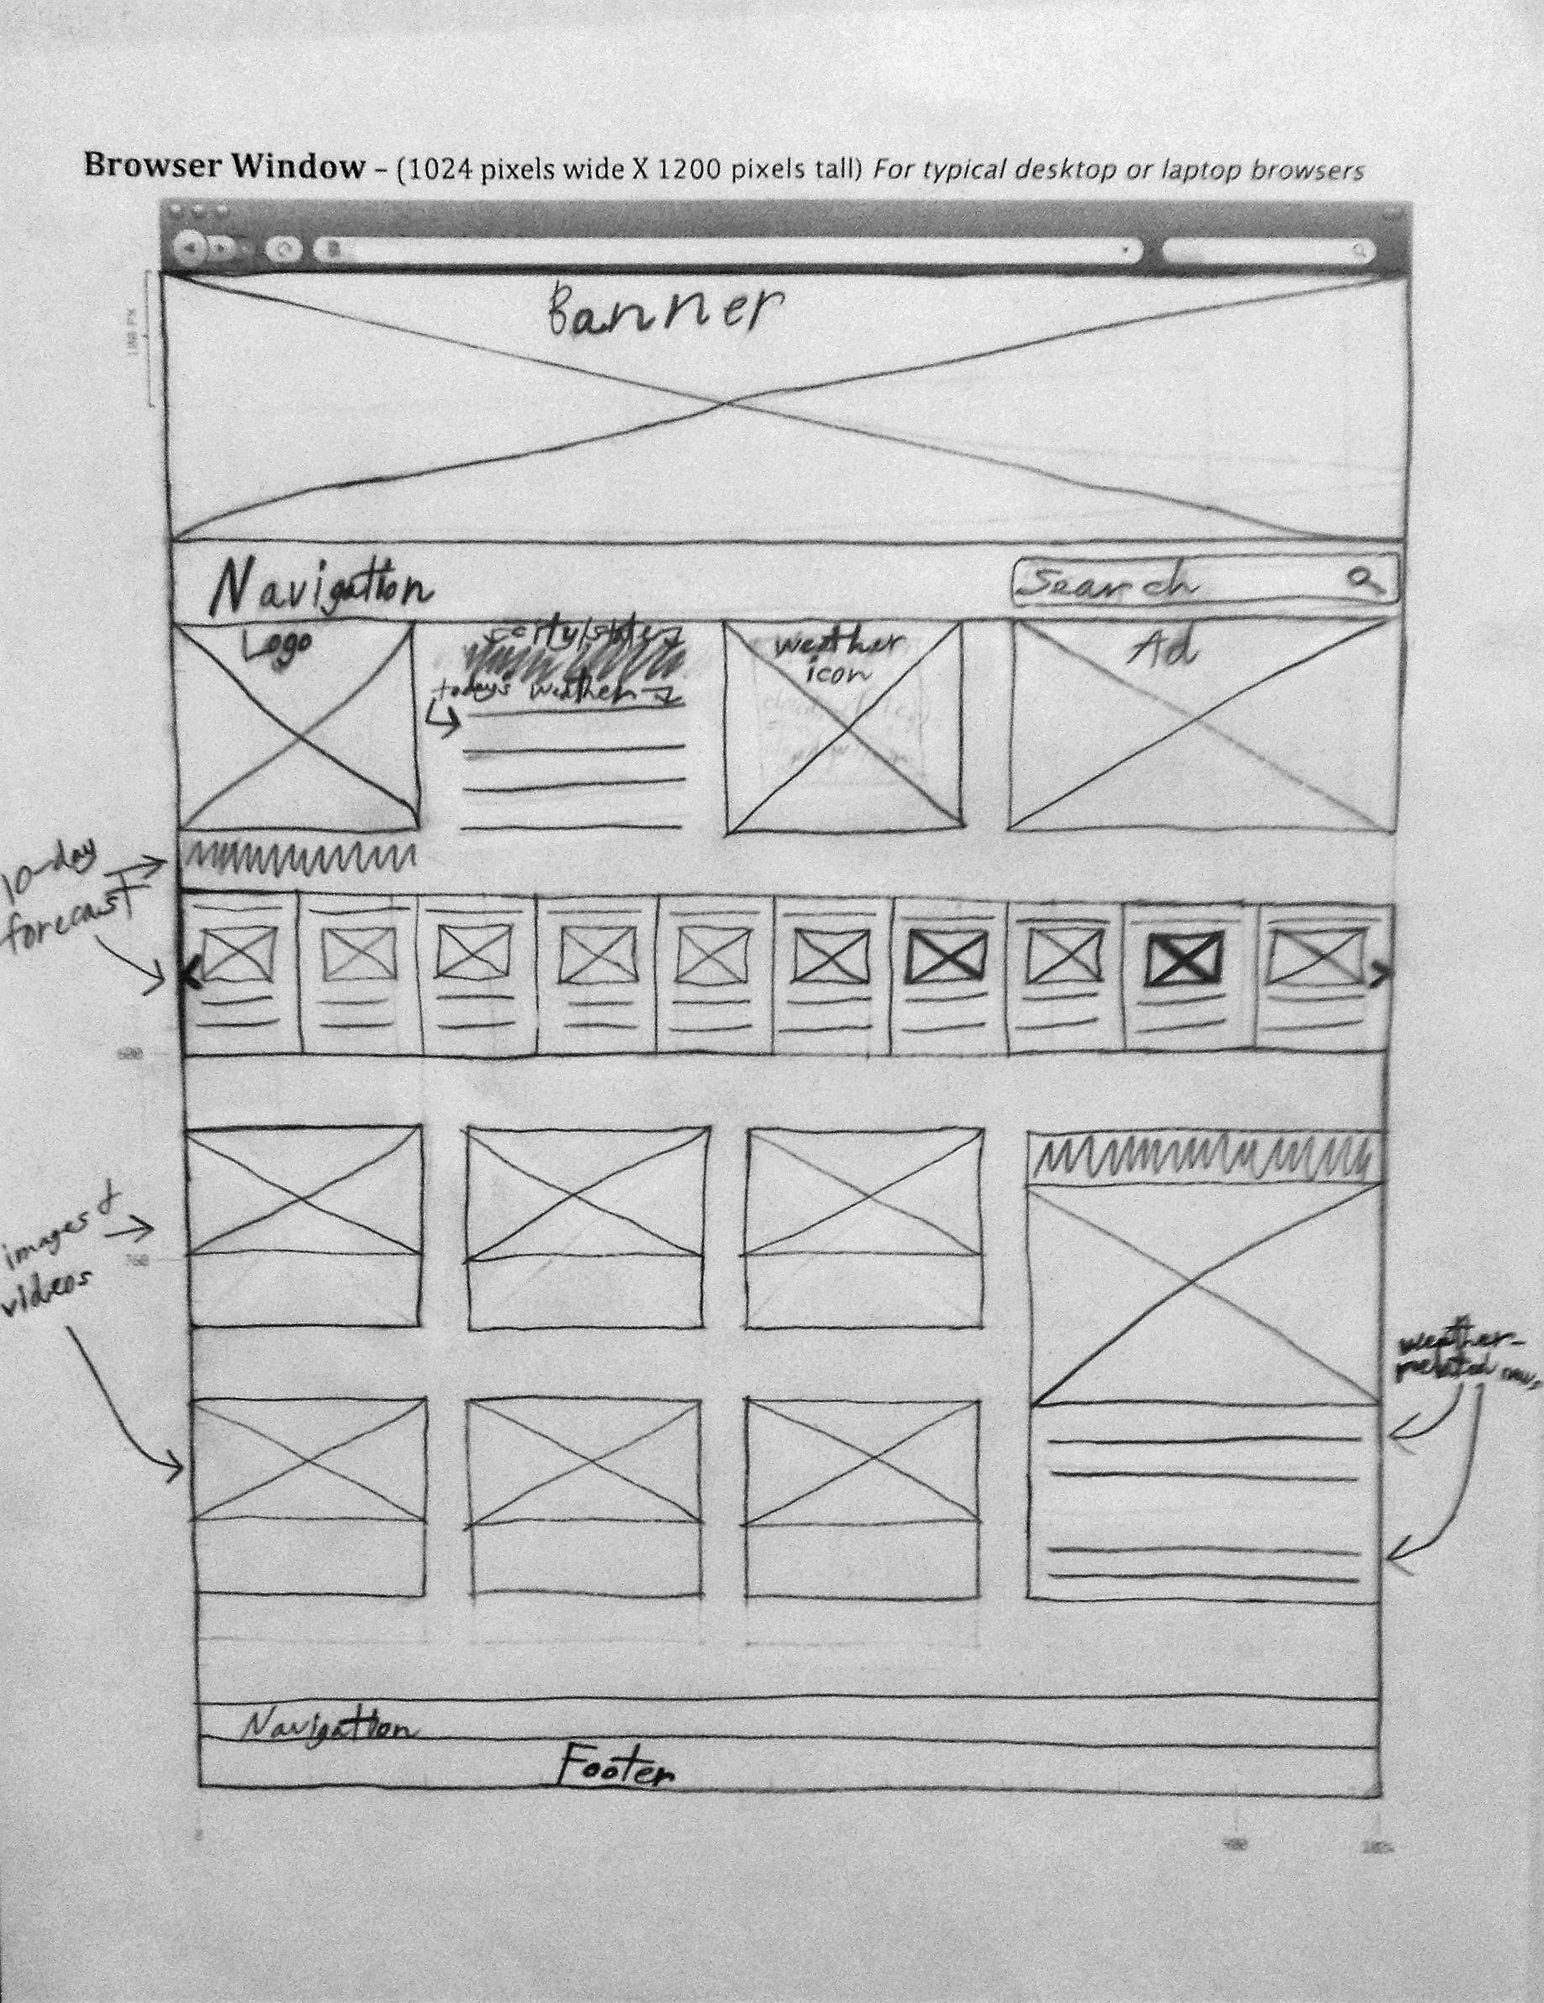
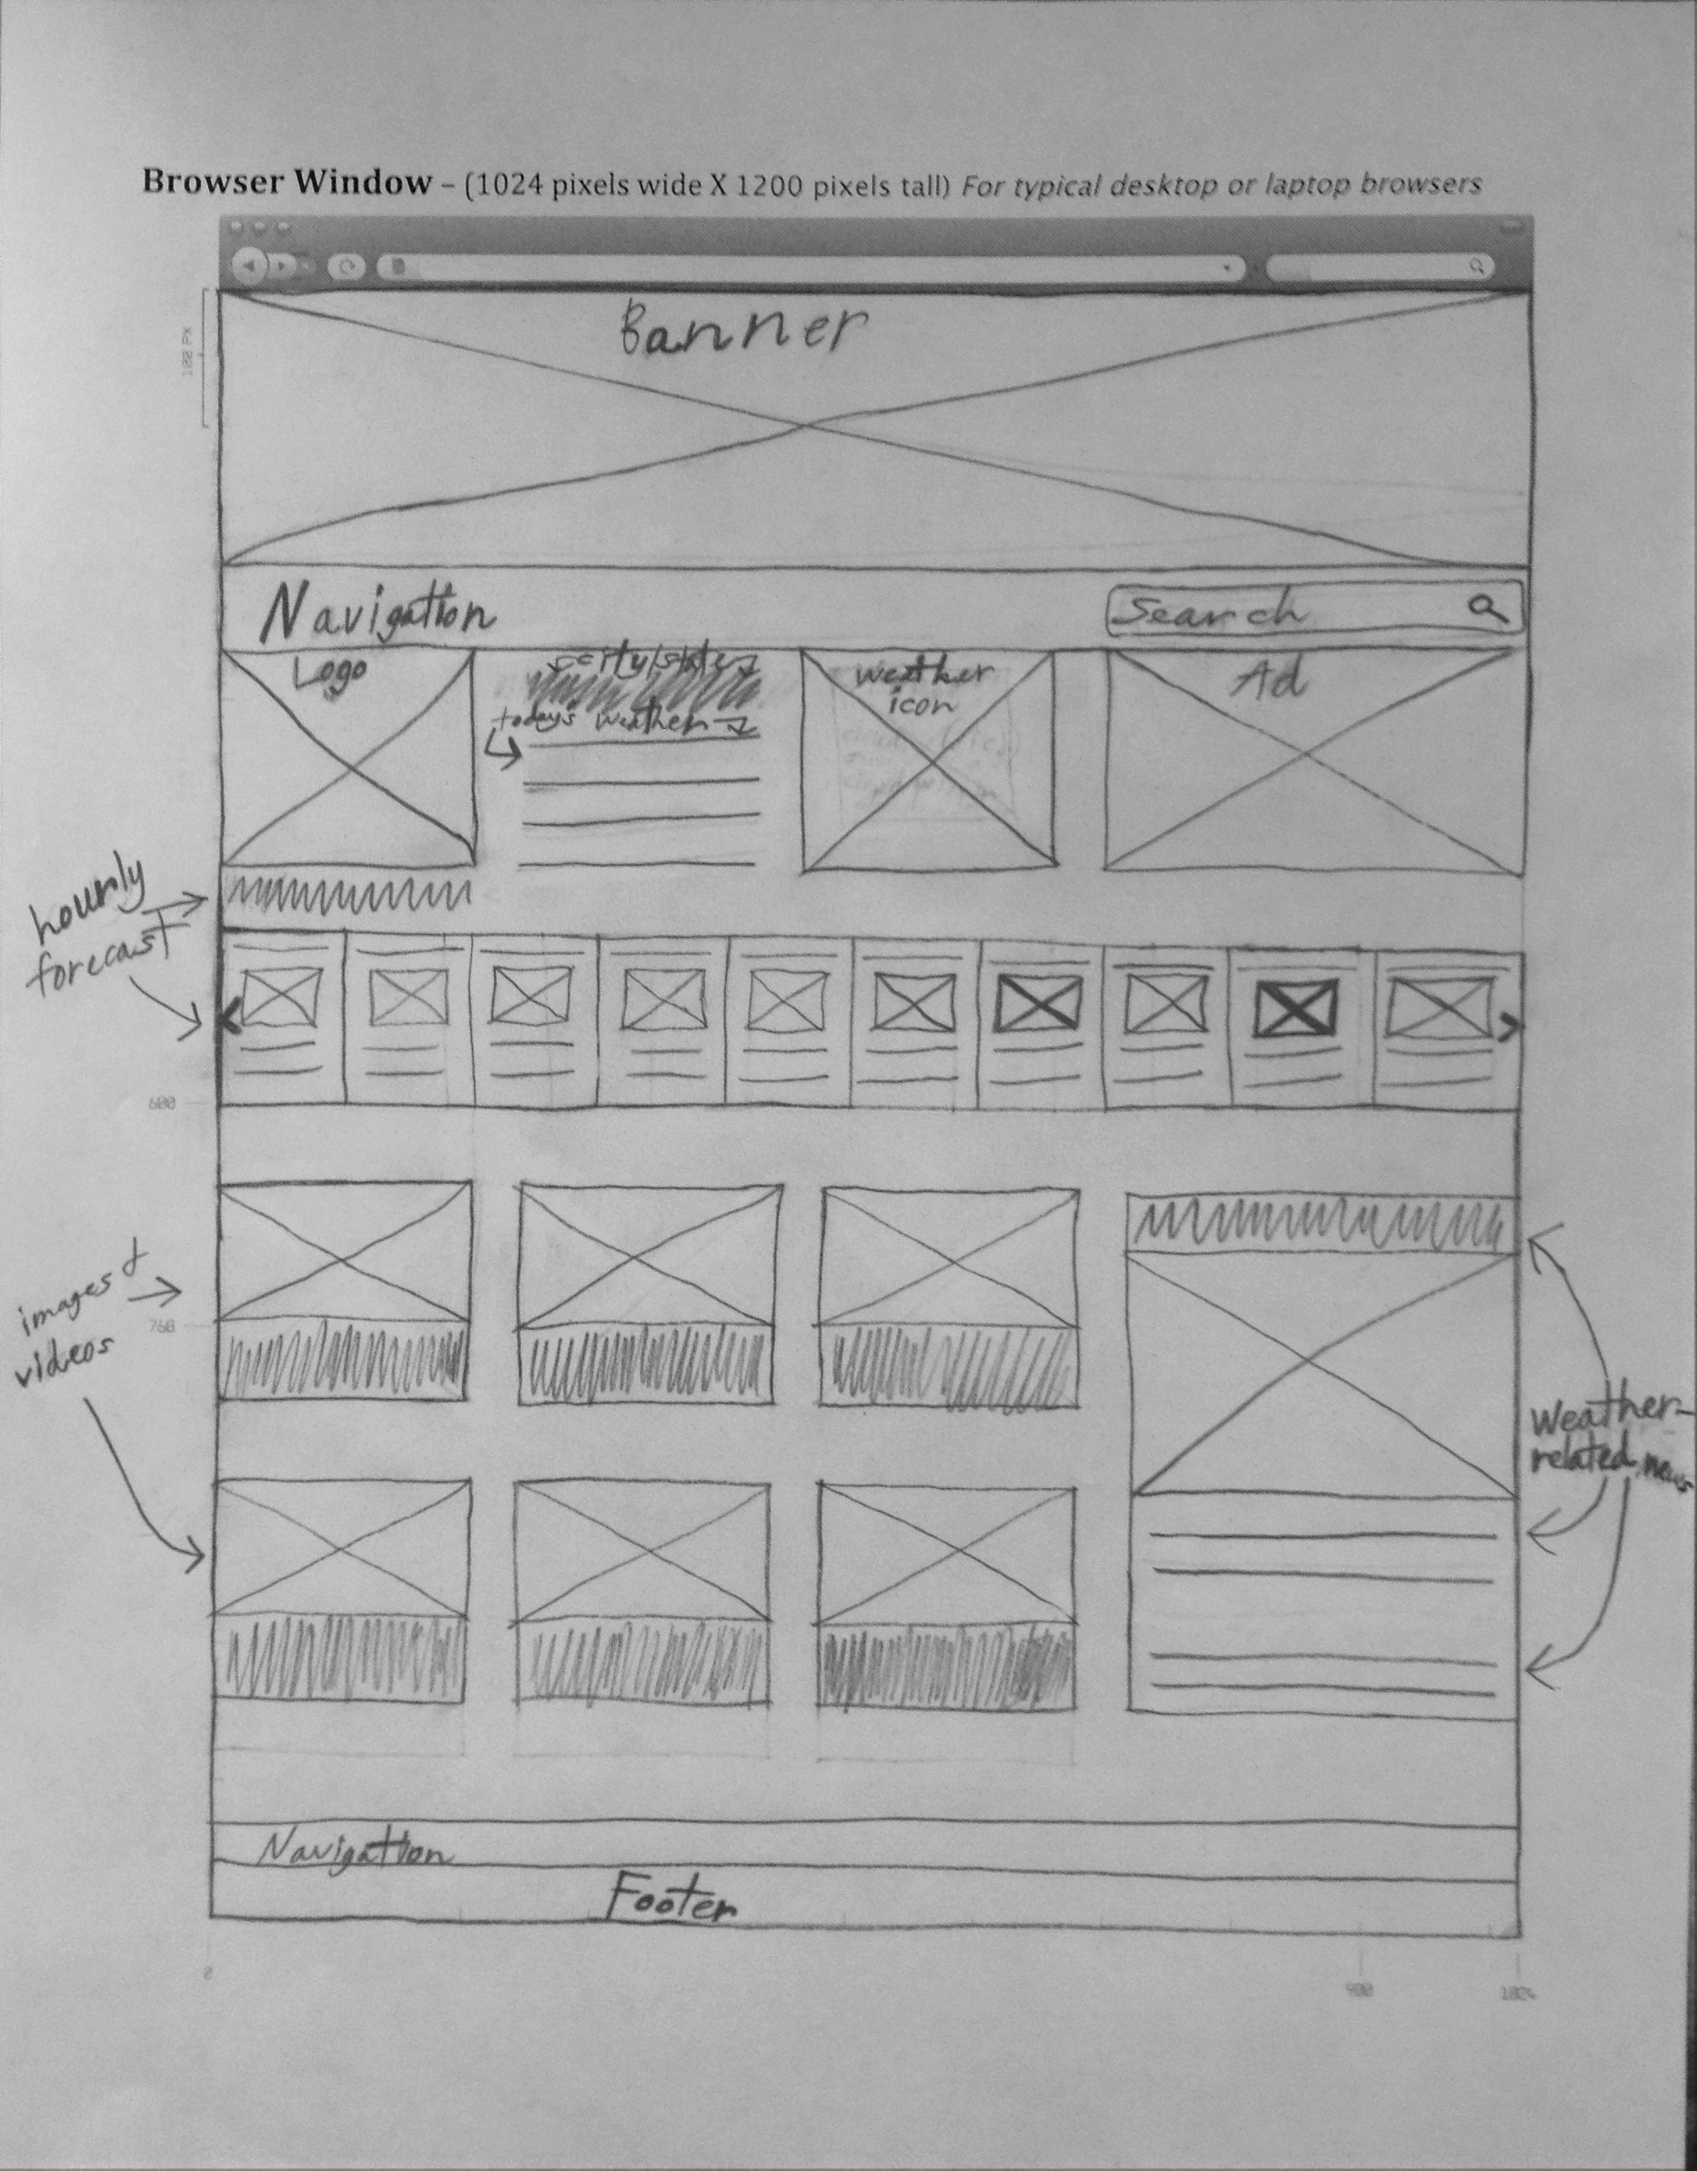
update
updated minor details on the tablet and browser sketches, and added the
mobile device sketches

diff --git a/weather/plan.html b/weather/plan.html
@@ -57,7 +57,7 @@
                         <li>Goals when using weather site:
                             <ul>
                                 <li>Find out what the high and low temperatures are going to be today</li>
-                                <li>Find out what the forecast is for the next few days</li>
+                                <li>Find out what the forecast is for the next few hours</li>
                                 <li>Find out if it is going to rain today or not and if so, at what time</li>
                                 <li>Find out if it's going to be cloudy or sunny today</li>
                             </ul>
@@ -69,8 +69,11 @@
                 <h2>Sketches (wireframes)</h2>
                 <!--No real content, but representations of the content. Examples: A paragraph of text - draw lines. An image - a box with an X in it.-->
                     <figure>
+                        <h3>Mobile Phone:</h3>
                         <img alt="iPhone Wireframe" src="/images/iphone.jpg" width="700"><br>
+                        <h3>Tablet:</h3>
                         <img alt="iPad Wireframe" src="/images/ipad.jpg" width="700"><br>
+                        <h3>Browser (on a desktop/laptop):</h3>
                         <img alt="Browser Wireframe" src="/images/browser.jpg" width="700">
                     </figure>
                 </section>
